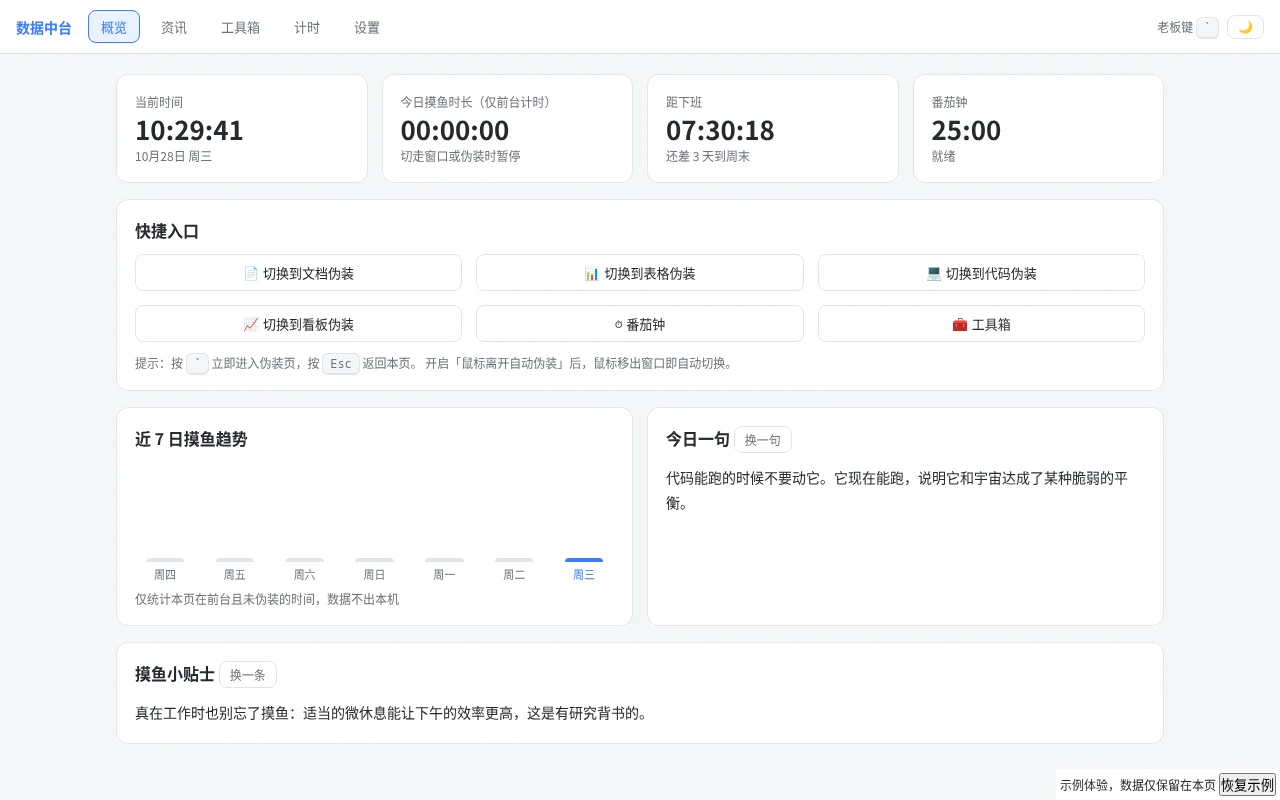
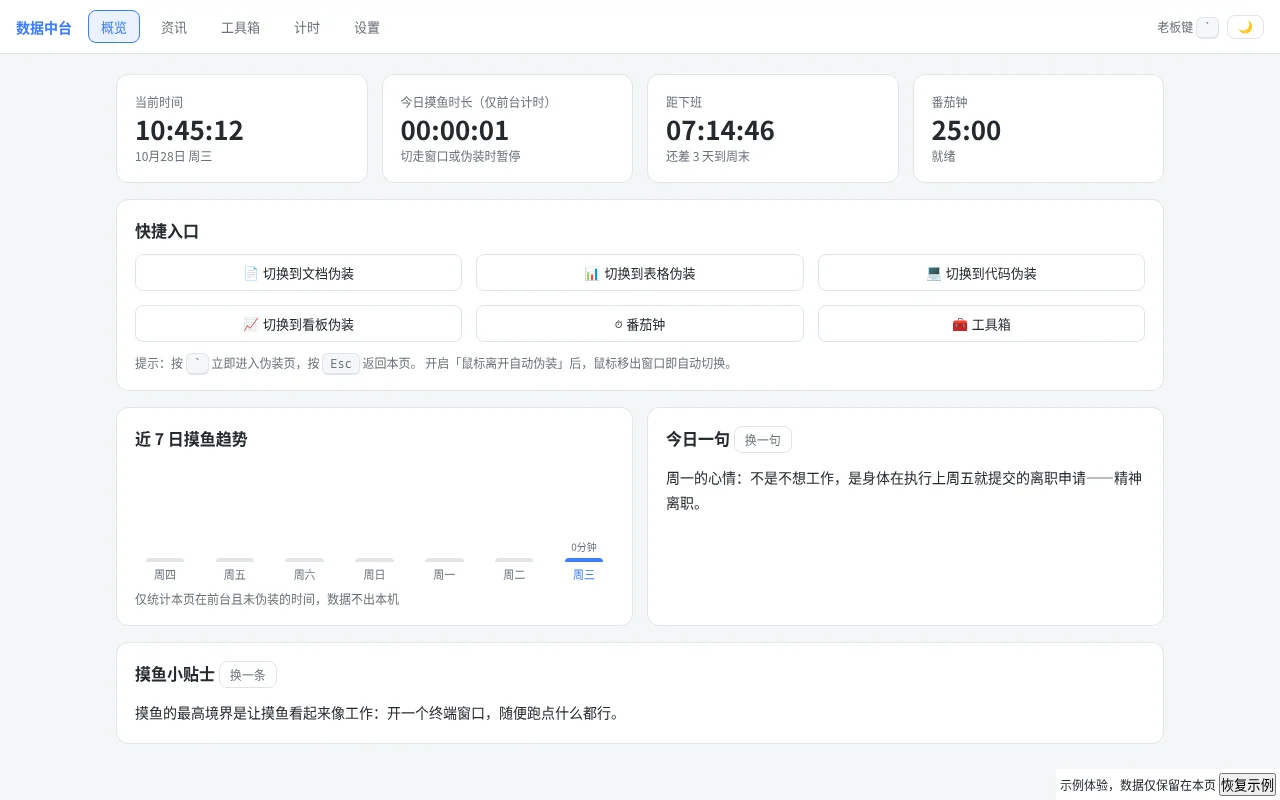
Support touch return from disguise

diff --git a/wb1024-c432-c565825a/showcase/preview.html b/wb1024-c432-c565825a/showcase/preview.html
@@ -150,6 +150,7 @@ label.row:last-child{border-bottom:none}
   background:var(--text);color:var(--bg);padding:8px 18px;border-radius:8px;
   font-size:13px;opacity:0;transition:opacity .25s;z-index:1000;pointer-events:none}
 #toast.show{opacity:.92}
+.touch-return{display:none}@media (hover:none) and (pointer:coarse){.touch-return{display:block;position:fixed;right:12px;bottom:12px;z-index:1001;padding:8px 12px;border:1px solid #ccc;border-radius:6px;background:#fff;color:#333}}
 </style>
 </head>
 <body><div style="position:fixed;bottom:0;right:0;z-index:99999;background:#fff;padding:4px;font-size:12px">示例体验，数据仅保留在本页 <button onclick="resetAll()">恢复示例</button></div>
@@ -582,6 +583,7 @@ function panic(custom){
   lastRealTitle = document.title;
   const kind = custom || S.disguise;
   disRoot.innerHTML = (RENDERERS[kind]||renderWord)();
+  const back = document.createElement('button'); back.className='touch-return'; back.textContent='返回工作台'; back.addEventListener('click', unpanic); disRoot.appendChild(back);
   disRoot.classList.add('on');
   // 标签同时伪装
   const tmap = { word:'项目文档.docx - Word', excel:'季度经营数据.xlsx - Excel', code:'daily_user_metrics_etl.py - Visual Studio Code', dash:'经营看板 | 数据平台' };

diff --git a/wb1024-c432-c565825a/src/main.js b/wb1024-c432-c565825a/src/main.js
@@ -146,6 +146,7 @@ function panic(custom){
   lastRealTitle = document.title;
   const kind = custom || S.disguise;
   disRoot.innerHTML = (RENDERERS[kind]||renderWord)();
+  const back = document.createElement('button'); back.className='touch-return'; back.textContent='返回工作台'; back.addEventListener('click', unpanic); disRoot.appendChild(back);
   disRoot.classList.add('on');
   // 标签同时伪装
   const tmap = { word:'项目文档.docx - Word', excel:'季度经营数据.xlsx - Excel', code:'daily_user_metrics_etl.py - Visual Studio Code', dash:'经营看板 | 数据平台' };

diff --git a/wb1024-c432-c565825a/src/style.css b/wb1024-c432-c565825a/src/style.css
@@ -138,3 +138,5 @@ label.row:last-child{border-bottom:none}
   background:var(--text);color:var(--bg);padding:8px 18px;border-radius:8px;
   font-size:13px;opacity:0;transition:opacity .25s;z-index:1000;pointer-events:none}
 #toast.show{opacity:.92}
+
+.touch-return{display:none}@media (hover:none) and (pointer:coarse){.touch-return{display:block;position:fixed;right:12px;bottom:12px;z-index:1001;padding:8px 12px;border:1px solid #ccc;border-radius:6px;background:#fff;color:#333}}

diff --git a/wb1024-c432-c565825a/spec/product.md b/wb1024-c432-c565825a/spec/product.md
@@ -1,3 +1,3 @@
 # 摸鱼工作台
 
-概览展示本机前台计时、下班倒计时、番茄钟和七日趋势。快捷入口与自定义老板键切换文档、表格、代码和看板伪装，Esc 返回；支持鼠标离开自动伪装。资讯使用内置内容，工具包括计算、单位换算、JSON、Base64、密码和时间转换。设置及计时数据保存在浏览器。界面提供浅色与深色主题及窄屏布局。
+概览展示本机前台计时、下班倒计时、番茄钟和七日趋势。快捷入口与自定义老板键切换文档、表格、代码和看板伪装，Esc 或触屏返回按钮返回；支持鼠标离开自动伪装。资讯使用内置内容，工具包括计算、单位换算、JSON、Base64、密码和时间转换。设置及计时数据保存在浏览器。界面提供浅色与深色主题及窄屏布局。
